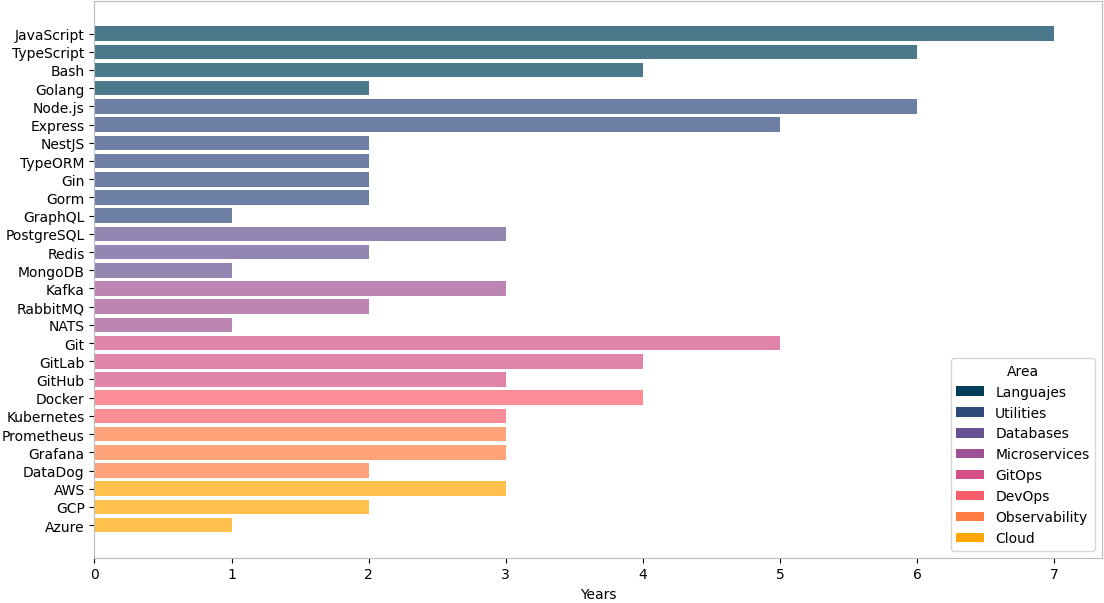
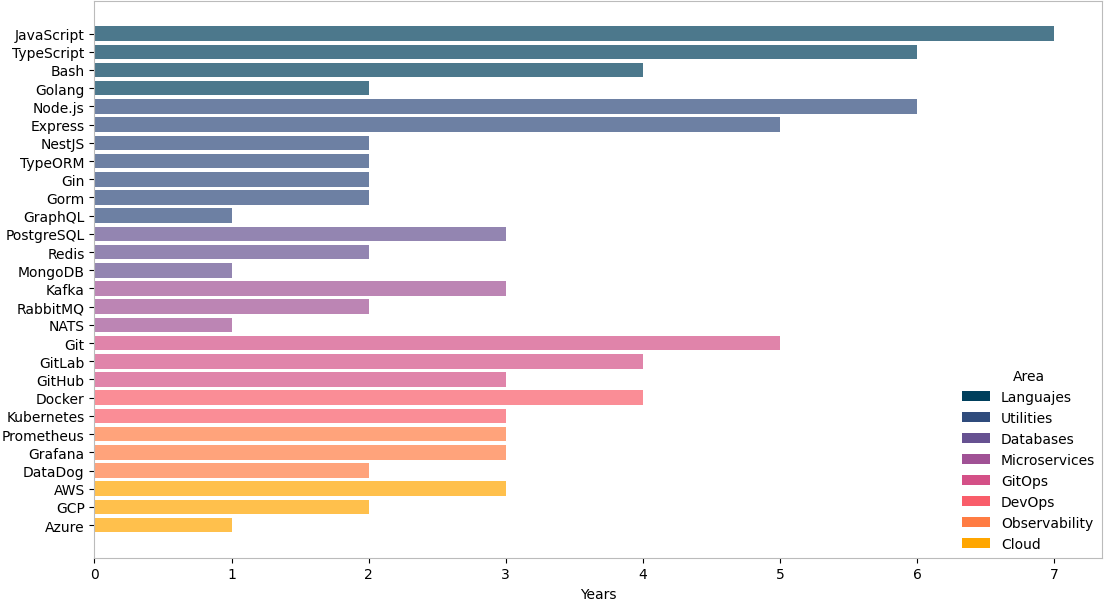
set the legend area to white

Changed region(s): [[0.8623, 0.597, 1.0, 0.9254]]

diff --git a/plot.py b/plot.py
@@ -122,7 +122,7 @@ plt.setp([ax.get_xticklines(), ax.get_yticklines()], color=spine_color)
 # Create a legend for the groups
 from matplotlib.patches import Patch
 legend_elements = [Patch(facecolor=color, label=group) for group, color in group_colors.items()]
-plt.legend(handles=legend_elements, title='Area')
+plt.legend(handles=legend_elements, title='Area', facecolor='white', framealpha=1, edgecolor='white', borderpad=0)
 
 plt.tight_layout(pad=0)
 plt.show()
